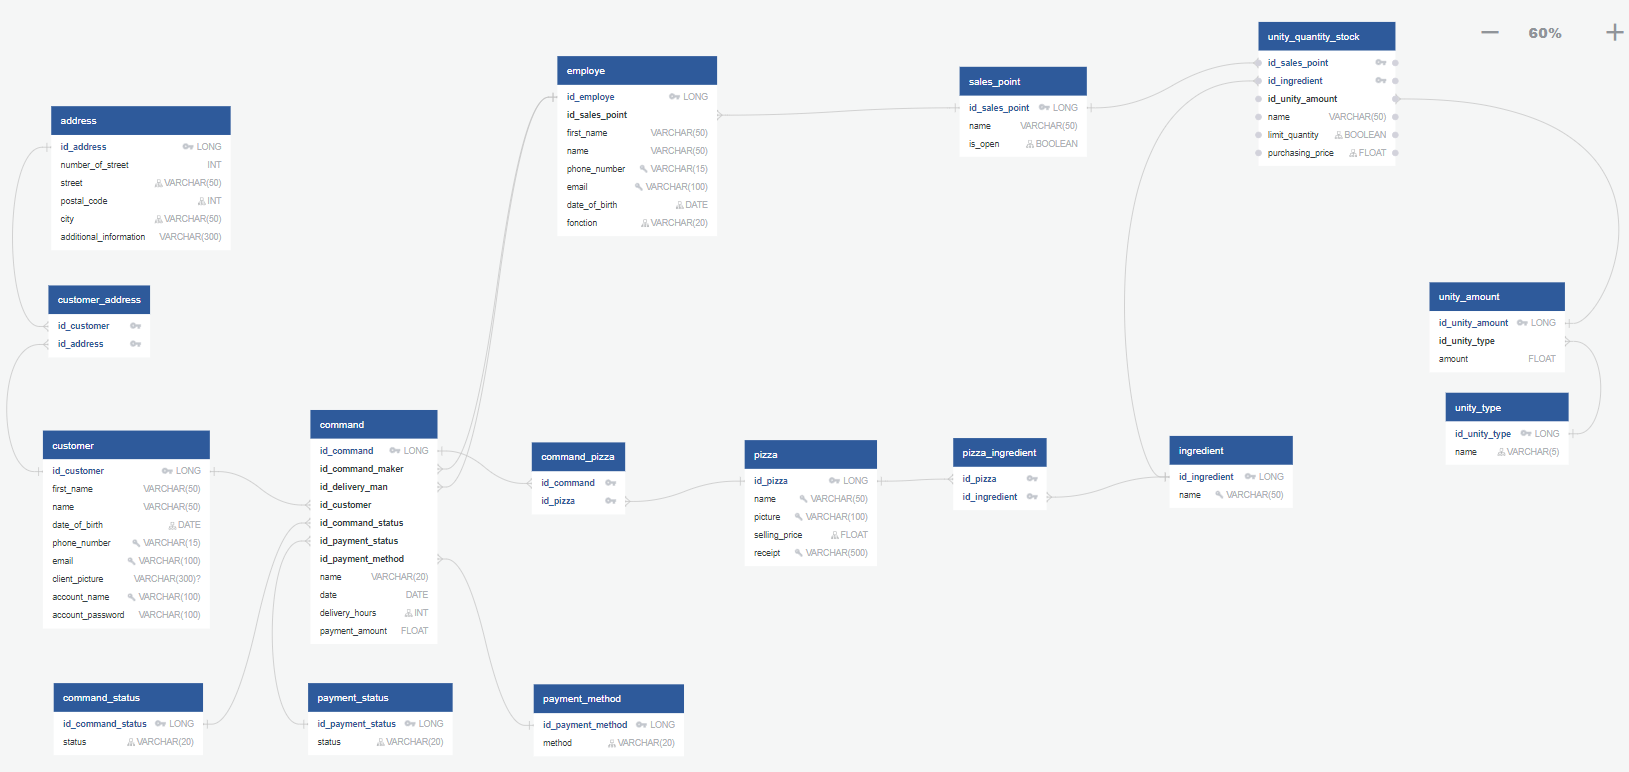
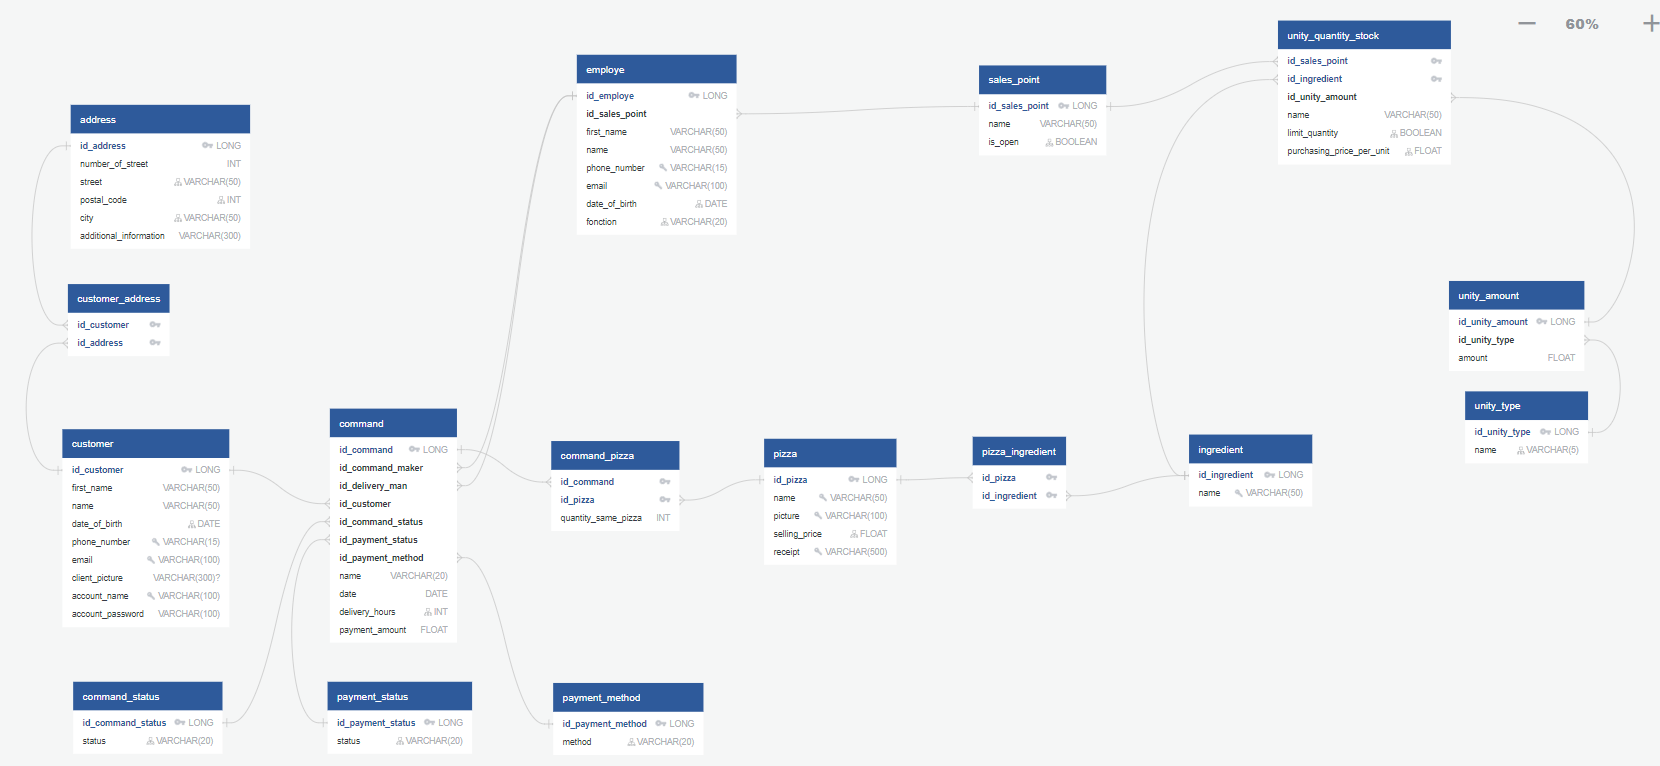
create the oc_pizza SQL file for adding the dataset demonstration, finish the script_table SQL file for the database creation and ameliorate the class diagramm and the realtional model in consequences

diff --git a/README.md b/README.md
@@ -51,11 +51,12 @@ The analysis of the functional domain involves the development of the class diag
 
 The system requires a number of other classes:
 - address: Adress of the customer.
-- employe: Employes of the pizzerias who made or deliver the pizzas for the customer.
+- employe: Employes of the pizzerias who made or deliver the pizzas for the customer. (this class is divided between delivery_man and command_maker)
 - command_status: Status of the command who permit the customer to follow his command.
 - payment_method: List of all payment solutions accepted by the group's pizzerias.
 - payment_status: Status of payment.
 - pizza: Pizzas that can be ordered by the customer with their receipt.
+- command_pizza : Indication of the number of the same pizza in one command
 - ingredient: The list of ingredients needed to make a pizza.
 - unity_quantity_stock: The inventory of ingredients available for each point of sale.
 - unity_amount: amount of the ingredients.
@@ -70,6 +71,12 @@ The physical data model makes it possible to build the final structure of the da
 ![Relational model](Technical_specifications/relational_model.png)
 
 ## MySQL database
+
+Demo dataset inspired by fictional elements. The database was created using SQL line command and SQL workbench from the physical data model produced. The import of the data and the export of the data insertion script was carried out using SQL workbench.
+
+The database can be imported by these two SQL files:
+- [Script for database creation](sql_script/script_table.sql)
+- [Script for demonstration data](sql_script/oc_pizza.sql)
 
 ## Documentation
 
